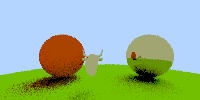
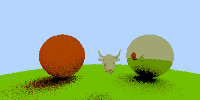
added surface scaling support

diff --git a/cmd/main.go b/cmd/main.go
@@ -11,6 +11,7 @@ import (
 	"github.com/neverix/pathcaster/pathcaster"
 	"github.com/neverix/pathcaster/shaders"
 	"github.com/neverix/pathcaster/surfaces"
+	"github.com/neverix/pathcaster/surfaces/transform"
 )
 
 const (
@@ -26,7 +27,7 @@ func main() {
 		fmt.Println(err)
 		os.Exit(1)
 	}
-	model.Shader = &shaders.ReflectiveShader{
+	model.Shader = &shaders.DiffuseShader{
 		Color: util.Color{
 			R: 0.8, G: 0.6, B: 0.2}}
 	fmt.Println("Parsed!")
@@ -51,10 +52,13 @@ func main() {
 			Radius: 4,
 			Shader: &shaders.ReflectiveShader{Color: util.Color{
 				R: 0.8, G: 0.6, B: 0.2}}},
-		&surfaces.Offset{
-			Child: model.ToSurface(),
+		&transform.Offset{
+			Child: &transform.Scale{
+				Child: model.ToSurface(),
+				Scale: util.Vec{
+					X: 1, Y: 1, Z: -1}},
 			Offset: util.Vec{
-				X: -2, Y: 0, Z: 5}}}
+				X: 0, Y: 0, Z: 3}}}
 
 	camera := pathcaster.Camera{
 		Position:     util.Vec{X: -1, Y: 1, Z: -8},

diff --git a/surfaces/transform/scale.go b/surfaces/transform/scale.go
@@ -1,0 +1,20 @@
+package transform
+
+import (
+	"github.com/neverix/pathcaster/pathcaster"
+	"github.com/neverix/pathcaster/util"
+)
+
+// Scale scales a surface
+type Scale struct {
+	Child pathcaster.Surface
+	Scale util.Vec
+}
+
+// Hit is an implementation of the hit method for a scaled object
+func (s *Scale) Hit(r *util.Ray, tMin, tMax float64) *pathcaster.Hit {
+	ray := r.Clone()
+	ray.Position = ray.Position.Mul3D(s.Scale)
+	ray.Direction = ray.Direction.Mul3D(s.Scale)
+	return s.Child.Hit(&ray, tMin, tMax)
+}

diff --git a/util/vec.go b/util/vec.go
@@ -24,6 +24,11 @@ func (v Vec) Mul(o float64) Vec {
 	return Vec{v.X * o, v.Y * o, v.Z * o}
 }
 
+// Mul3D multiplies a vector by a vector component-wise
+func (v Vec) Mul3D(o Vec) Vec {
+	return Vec{v.X * o.X, v.Y * o.Y, v.Z * o.Z}
+}
+
 // Div divides a vector by a number
 func (v Vec) Div(o float64) Vec {
 	return Vec{v.X / o, v.Y / o, v.Z / o}

diff --git a/surfaces/transform/offset.go b/surfaces/transform/offset.go
@@ -1,4 +1,4 @@
-package surfaces
+package transform
 
 import (
 	"github.com/neverix/pathcaster/pathcaster"
